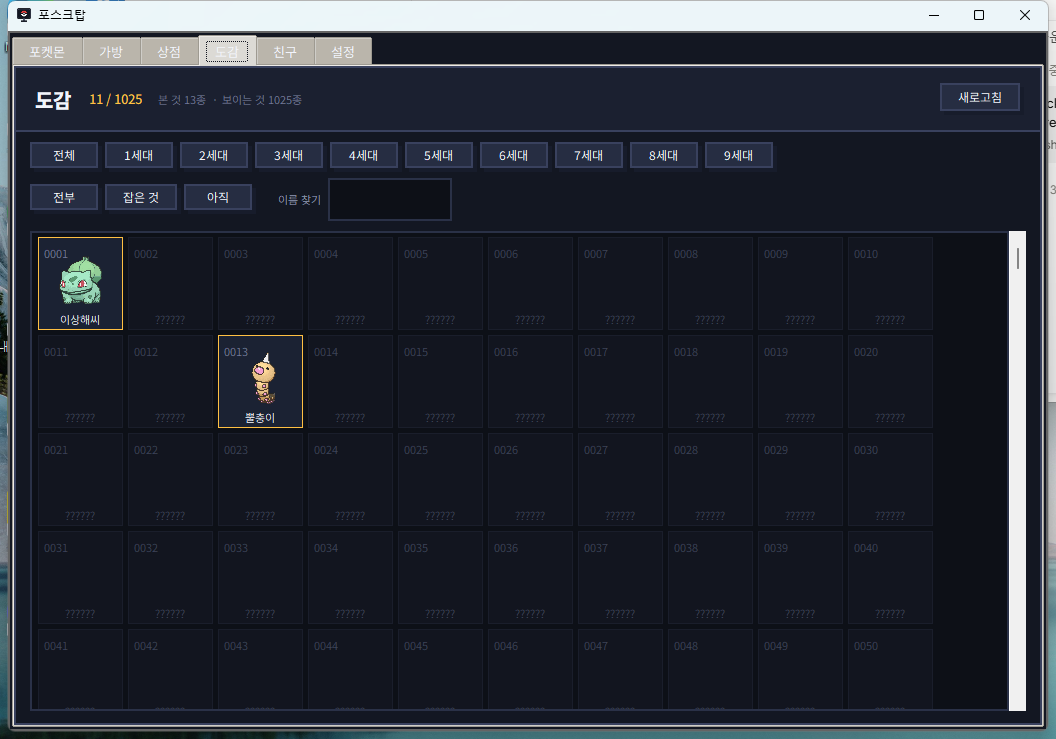
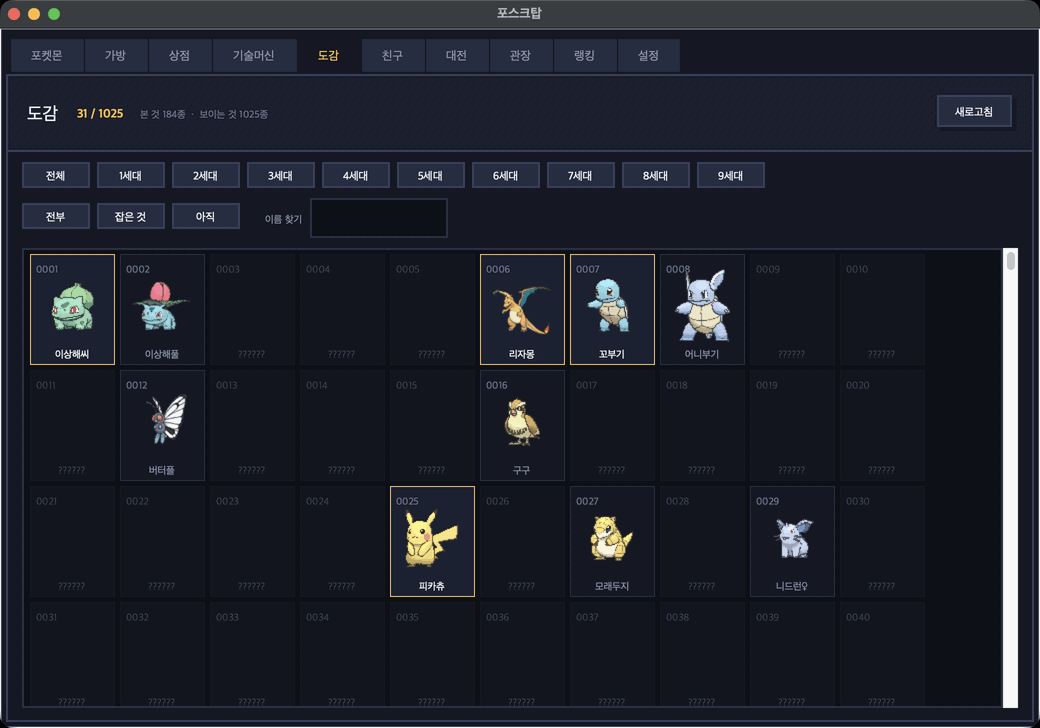
리드미를 1.3.0 에 맞춘다
9월 초(1.0.10) 이후로 안 고쳐서 옛말이 많았다.

- 관장 도전, 기술머신, 지닌 도구·특성, 꽃이 핀 풀숲, 무엇을 잊을지 고르는
  기술 배우기, 가만히 있을 때의 동작을 넣었다
- 도구 94종 -> 212종, 드랍 확률 표를 지금 items.json 으로 다시 셌다
- 대전 상금(이긴 판 1,000원·진 판 300원 -> 내가 건 판을 이기면 500원),
  랜덤 매칭(레벨 +-5, 깍두기 레벨 제외)을 지금 규칙으로 고쳤다
- 포켓몬 관리·가방·상점·도감 화면을 새로 찍고, 기술머신·관장 화면을 더했다
  (256색으로 줄여 한 장에 30~65KB)

CREDITS 에는 관장 기능이 쓰는 자료의 출처를 더했다. 대한민국 지도
(통계청 SGIS · vuski/admdongkor, CC BY 4.0), 트레이너 팀(Bulbapedia),
트레이너 도트(Pokémon Showdown).

diff --git a/README.md b/README.md
@@ -8,6 +8,7 @@
 
 일하는 화면 한켠에서 포켓몬들이 걸어다닙니다.
 가끔 풀숲이 돋아나고, 야생 포켓몬이 나타나고, 잡아서 키웁니다.
+다 키웠으면 친구와 붙거나, 대한민국 곳곳의 관장에게 도전합니다.
 
 [**최신 버전 받기**](https://github.com/rudtjr1106/poketdesktop/releases/latest) · [쓰인 자료](CREDITS.md)
 
@@ -22,20 +23,25 @@
 ## 진짜로 걸어다닙니다
 
 미끄러지듯 움직이는 게 아니라 **발이 바뀝니다.**
-가는 방향에 따라 몸을 돌리고, 위로 올라가면 등이 보입니다.
+가는 방향에 따라 몸을 돌리고, 위로 올라가면 등이 보입니다. 비스듬히도 걷습니다.
 나는 포켓몬은 나는 모습으로 움직입니다.
 걸음은 실제로 나아가는 속도에 맞춰 돌아갑니다 — 천천히 가면 발도 천천히 움직입니다.
+
+가만히 서 있을 때도 굳어 있지 않습니다. 숨을 쉬고, 가끔 앉거나 눕습니다.
+**한동안 안 건드리면 그 자리에서 잠들고**, 건드리면 일어나서 다시 걷습니다.
 
 <sub>1025종 중 982종(야생에 나오는 종 기준 96.8%)에 걷는 도트가 있습니다.
 없는 종은 기존 도트로 나오고, 이 경우 걷는 모습 대신 제자리 애니메이션입니다.</sub>
 
 <div align="center">
-<img src="docs/images/walk-directions.png" width="620" alt="네 방향 걷기">
+<img src="docs/images/walk-directions.png" width="620" alt="방향마다 다른 걷기">
 </div>
 
 ## 어떻게 노나요
 
 **5~7분에 한 번 풀숲이 돋아납니다.** 클릭하면 야생 포켓몬이 나옵니다.
+가끔은 **꽃이 핀 풀숲**이 돋습니다. 그 안에는 좀처럼 만나기 어려운 포켓몬이
+숨어 있습니다 — 무엇인지는 눌러 봐야 압니다.
 
 - **왼쪽 클릭** — 배틀을 겁니다. 내 포켓몬이 다가가서 알아서 싸웁니다
 - **오른쪽 클릭** — 던질 볼을 고릅니다
@@ -44,44 +50,86 @@
 **배틀 중에도 오른쪽 클릭하면 볼을 고릅니다.** 체력을 깎아둔 뒤가 제일
 잘 잡히는데, 거기서 볼을 못 고르면 아깝습니다.
 
-볼은 20종입니다. **지금 상황에서 어느 볼이 잘 듣는지 서버가 계산해서
+볼은 21종입니다. **지금 상황에서 어느 볼이 잘 듣는지 서버가 계산해서
 알려줍니다** — 물타입에게 네트볼이면 ×3.5, 레벨이 낮으면 네스트볼이
 ×3.6 하는 식으로, 배율과 그 이유가 메뉴에 같이 뜹니다.
-던지는 볼에 따라 **날아가는 볼의 그림도 다릅니다.**
+던지는 볼은 **가방에서 보던 그 볼 그림**으로 날아갑니다.
 
-**알림을 띄우지 않습니다.** 켜 두고 잊어버리는 프로그램이라, 무슨 일이
+**알림을 거의 띄우지 않습니다.** 켜 두고 잊어버리는 프로그램이라, 무슨 일이
 있을 때마다 화면 구석에서 튀어나오면 하던 일을 방해합니다. 게임 안에서
 일어나는 일은 바탕화면에서 눈으로 보입니다 — 풀숲이 흔들리고, 도트가
-싸우고, 진화 연출이 돕니다. 놓치면 안 되는 것은 트레이 메뉴에 남습니다.
+싸우고, 진화 연출이 돕니다. 알려주는 것은 놓치면 알 길이 없는 것뿐입니다
+(새 버전, 친구 요청, 선물).
 
 배틀은 별도 화면 없이 **바탕화면 그 자리에서** 벌어집니다.
-서로의 머리 위에 체력바가 뜨고, 체력을 깎아두면 훨씬 잘 잡힙니다.
+서로의 머리 위에 체력바가 뜨고, 기술마다 연출이 나옵니다.
 
-레벨이 오르면 도감대로 기술을 배웁니다. 기술이 네 개 차면 가장 오래된 것이
-밀려나는데, 무엇을 잊었는지 알림으로 알려줍니다.
+레벨이 오르면 도감대로 기술을 배웁니다. **기술이 이미 네 개면 무엇을 잊을지
+직접 고릅니다** — 다섯 기술의 설명과 물리·특수·변화가 한 창에 펼쳐집니다.
 
 <div align="center">
 <img src="docs/images/box.png" width="600" alt="포켓몬 관리">
 </div>
 
 파티는 여섯 마리, 넘치면 PC 박스로 갑니다.
-개체값·성격·특성·기술 전부 본가와 같은 규칙입니다.
+개체값·성격·특성·기술 전부 본가와 같은 규칙이고, 특성과 성격을 누르면
+무슨 뜻인지 알려줍니다. PC 박스는 **타입으로 거르고 이름으로 찾습니다.**
 
 **줄을 끌어다 놓으면 자리가 바뀝니다.** 박스에 있는 애를 파티 줄에 놓으면
 서로 자리를 바꾸고, 파티 안에서 옮기면 순서가 바뀝니다.
 
 ### 창이 하나입니다
 
-포켓몬 관리 · 가방 · 상점 · 도감 · 친구 · 설정이 **탭 하나에** 들어 있습니다.
+포켓몬 · 가방 · 상점 · 기술머신 · 도감 · 친구 · 대전 · 관장 · 랭킹 · 설정이
+**탭 하나에** 들어 있습니다.
 가방을 보다가 상점에 가려고 트레이로 돌아갈 필요가 없습니다.
+
+## 관장에게 도전합니다
+
+**대한민국 시·군·구 256곳마다 트레이너가 한 명씩 기다립니다.**
+관장·사천왕·챔피언부터 라이벌과 악의 조직까지, 원작에서 데리고 다니던
+포켓몬 그대로 Lv.20~100 에 나눠 두었습니다. 난천은 한카리아스를, 레드는
+피카츄를 에이스로 데리고 나옵니다. 어디에 누가 있는지에도 이유가 있습니다.
+
+<div align="center">
+<img src="docs/images/gym-map.png" width="600" alt="서울의 트레이너와 난천의 카드">
+</div>
+
+전국 지도에서 시·도를 누르면 그 안의 시·군·구로 들어갑니다. 레벨이 높을수록
+붉게 칠해지고, 이긴 곳에는 금색 테두리가 둘러집니다. **휠로 지도를 키우고
+끌어서 옮길 수 있습니다** — 서울의 구처럼 작은 곳도 눌러집니다.
+울릉군이나 백령도처럼 멀리 떨어진 섬은 가까이 당겨 그렸습니다.
+
+바탕화면 배틀과 달리 **여기서는 사람이 고릅니다.** 데리고 다니는 포켓몬으로
+6:6, 매 턴 기술을 고르거나 포켓몬을 바꿉니다. 한쪽이 전멸할 때까지 갑니다.
+
+<table>
+<tr>
+<td width="50%"><img src="docs/images/gym-battle.png" alt="기술을 고르는 관장 배틀"></td>
+<td width="50%"><img src="docs/images/gym-fx.png" alt="화염방사 연출"></td>
+</tr>
+</table>
+
+- **기술마다 연출이 나옵니다.** 화염방사는 불길이, 지진은 땅이 갈라지는 식입니다
+- **특성이 동작합니다.** 위협·저수·옹골참·변환자재 같은 특성 167가지가 효과를 냅니다
+- **상대도 머리를 씁니다.** 레벨이 높은 트레이너일수록 불리하면 포켓몬을 바꿉니다
+- 붙기 전에는 **상대 포켓몬의 종류와 레벨까지만** 보입니다. 기술과 특성은 싸워 봐야 압니다
+- 창을 닫아도 승부는 **한 시간 동안 남아 있어서**, 그 지역을 다시 누르면 이어서 합니다
+
+처음 이긴 곳은 **트레이너 레벨×50원**, 다시 이기면 하루 한 번 레벨×5원을 받습니다.
+관장 배틀의 경험치는 1.2배입니다. 판정은 전부 서버가 합니다.
 
 ## 친구와 붙습니다
 
 창을 열고 **친구** 탭에서 닉네임으로 찾아 신청하면 됩니다.
 닉네임이 정확히 맞아야 찾아집니다.
 
-- **랜덤 배틀** — 비슷한 레벨대의 누군가와 붙습니다
+- **랜덤 배틀** — 파티 평균 레벨이 ±5 안인 사람과 붙습니다 (없으면 ±10 까지)
 - **친구 배틀** — 친구 목록에서 지목합니다
+
+랜덤 배틀은 **오래 안 만난 사람부터** 붙이고, 세 시간 안에 붙은 사람은 건너뜁니다.
+평균 레벨을 셀 때 **파티에서 가장 높은 레벨보다 20 넘게 낮은 포켓몬은 뺍니다** —
+Lv.1 을 끼워 평균을 깎아도 원래 레벨대의 상대와 붙습니다.
 
 **상대가 켜 두지 않아도 됩니다.** 그 사람의 지금 파티를 그대로 데려와
 싸우고, 상대는 다음에 켤 때 결과를 봅니다. 서로 켜져 있기를 기다리면
@@ -91,19 +139,22 @@
 반원으로 모이고, 앞선 둘이 가운데로 나와 싸웁니다. 쓰러지면 다음 선수가
 걸어 나오고, 한쪽이 전멸하면 끝납니다. 끝나면 다들 원래대로 돌아갑니다.
 
-싸우는 동안 **상대 닉네임이 오른쪽 아래에 뜹니다.**
+싸우는 동안 **상대 닉네임이 오른쪽 아래에 뜹니다.** 특성이 발동하면
+포켓몬 위에 특성 이름이 뜨고, 지닌 도구도 효과를 냅니다.
 
 진행은 자동입니다. 기술도 교체도 사람이 고르지 않습니다 — 어떤 팀을
 키웠는지로 승부가 갈립니다.
 
 다만 **아무나 순서대로 내보내지는 않습니다.** 쓰러지면 다음 선수를
 상성을 보고 고릅니다 — 내 기술이 상대에게 얼마나 박히는지, 상대 기술이
-나를 얼마나 아프게 하는지를 재서 제일 나은 애가 나옵니다.
+나를 얼마나 아프게 하는지를 재서 제일 나은 애가 나옵니다. 특성 때문에
+안 먹히는 기술(부유에게 땅 기술 같은)은 없는 셈 칩니다.
 순서대로 내보내는 방식과 600판을 붙여 보니 **57% 를 이겼습니다.**
 
-이기면 1,000원, 비기면 500원, 져도 300원을 받습니다(친구 배틀은 절반).
-하루에 받을 수 있는 상금과 걸 수 있는 판수에는 상한이 있습니다.
-랜덤 배틀은 점수가 오르내리고, 다섯 판을 채우면 순위표에 오릅니다.
+**내가 건 판을 이기면 500원**을 받습니다(친구 배틀은 절반). 걸려온 판과
+진 판은 상금이 없습니다 — 누워 있는 편이 이득이면 안 되니까요.
+하루에 걸 수 있는 판은 20판, 대전으로 받는 돈은 하루 6,000원까지입니다.
+랜덤 배틀은 점수가 오르내리고, 다섯 판을 채우면 **랭킹** 탭의 순위표에 오릅니다.
 
 ## 본가 그대로
 
@@ -111,41 +162,59 @@
 |---|---|
 | **1~9세대 1025마리** | 타입·종족값·기술·특성 전부 정식 도감 자료 |
 | **개체값 · 성격 · 특성** | 3세대 이후 능력치 공식 그대로 |
+| **특성** | 관장 배틀과 유저 배틀에서 167가지가 효과를 냅니다 (야생 배틀은 끔) |
+| **지닌 도구** | 121종. 야생·유저·관장 배틀 모두에서 효과를 냅니다 |
+| **기술머신** | 358개. 기술이 네 개면 무엇을 잊을지 고릅니다 |
 | **경험치** | 5세대 공식. 학습장치로 파티 전원이 나눠 받습니다 |
 | **노력치** | 스탯당 252, 총합 510 |
-| **진화** | 레벨 · 돌 · 친밀도 · 특정 기술. 이브이 여덟 갈래도 조건대로 |
+| **진화** | 레벨 · 돌 · 친밀도 · 특정 기술. 이브이 여덟 갈래도 조건대로. 교환진화는 도구로 |
 | **친밀도** | 바탕화면에 데리고 다닌 시간만큼 오릅니다 |
 | **포획** | 5세대 이후 공식. 볼 종류마다 상황을 봅니다 |
 | **이로치** | 4096분의 1 |
 
-전설의 포켓몬은 야생에 나오지 않습니다. 나중에 이벤트로 넣을 예정입니다.
+전설의 포켓몬은 야생에 나오지 않습니다. 대신 사천왕·조직 보스 같은
+트레이너 몇몇이 원작처럼 데리고 나옵니다.
 
 ## 도감
 
 만난 포켓몬이 도감에 남습니다. **1025종 전부** 있고, 세대별로 얼마나
-채웠는지 보여줍니다. 본 적 없는 종은 이름이 가려져 있습니다.
+채웠는지 보여줍니다. 본 적 없는 종은 이름이 가려져 있고, 진화시킨
+포켓몬도 바로 올라갑니다.
 
 <div align="center">
 <img src="docs/images/dex.png" width="600" alt="도감">
 </div>
 
+## 기술머신
+
+**358개**가 있습니다. 상점에서는 살 수 없고 포켓몬을 잡으면 나옵니다.
+하나를 고르면 가진 포켓몬 중 **누가 배울 수 있는지** 바로 보이고,
+기술의 위력·명중·설명이 같이 나옵니다. 써도 없어지지 않습니다.
+
+<div align="center">
+<img src="docs/images/tms.png" width="600" alt="기술머신">
+</div>
+
 ## 도구와 상점
 
-야생을 잡거나 쓰러뜨리면 **가끔 도구가 떨어집니다.** 94종이 있습니다.
+야생을 잡거나 쓰러뜨리면 **가끔 도구가 떨어집니다.** 212종이 있습니다.
 
 <div align="center">
 <img src="docs/images/shop.png" width="600" alt="프렌들리샵">
 </div>
 
 흔한 건 자주, 귀한 건 가끔 나옵니다.
-안 쓰는 건 상점에 팔아 돈을 만들고, 그 돈으로 필요한 걸 삽니다.
-**돈은 도구를 팔아서만 법니다.**
+안 쓰는 건 상점이나 가방에서 바로 팔아 돈을 만들고, 그 돈으로 필요한 걸 삽니다.
+돈은 도구를 팔거나, 대전과 관장에게 이겨서 법니다.
 
 <div align="center">
 <img src="docs/images/bag.png" width="600" alt="가방">
 </div>
 
-- **진화의 돌** — 이브이를 여덟 갈래 중 어디로 보낼지 고릅니다
+- **지닌 도구 121종** — 목탄·먹다남은음식·생명의구슬·구애스카프 같은 것들입니다.
+  **얼마나 올려 주는지 수치로 보입니다** (목탄: 불꽃 타입 기술의 위력이 20% 올라간다)
+- **진화의 돌** — 이브이를 여덟 갈래 중 어디로 보낼지 고릅니다.
+  교환으로 진화하던 포켓몬은 연결의끈·금속코트 같은 도구로 진화합니다
 - **영양제 · 깃털 · 열매** — 노력치를 올리고 내립니다
 - **은색/금색 병뚜껑** — 레벨 50부터 개체값을 최고로 단련합니다
 - **이상한사탕 · 변함없는돌** — 레벨을 올리고, 진화를 멈춥니다
@@ -154,32 +223,33 @@
 
 **잡으면 30%, 쓰러뜨리면 45%** 로 도구가 하나 떨어집니다.
 잡으면 포켓몬이라는 보상이 이미 있어서 쓰러뜨릴 때보다 낮습니다.
-94종 중 88종이 나옵니다.
+212종 중 205종이 나옵니다.
 이로치를 잡으면 여러 번 뽑아 그중 제일 귀한 것을 줍니다.
 
 | 등급 | 종류 | 나올 확률 | 한 종당 |
 |---|---:|---:|---:|
-| 흔함 | 18종 | 53.4% | 2.969~2.969% |
-| 조금 귀함 | 20종 | 26.7% | 1.336~1.336% |
-| 귀함 | 41종 | 17.0% | 0.416~0.416% |
-| 매우 귀함 | 7종 | 2.5% | 0.148~1.010% |
-| 전설 | 2종 | 0.3% | 0.059~0.267% |
+| 흔함 | 61종 | 62.3% | 1.022% |
+| 보통 | 57종 | 26.2% | 0.460% |
+| 희귀 | 71종 | 10.2% | 0.143% |
+| 매우 희귀 | 14종 | 1.2% | 0.051~0.347% |
+| 전설 | 2종 | 0.1% | 0.020~0.092% |
 
 눈여겨볼 것들입니다. **하루 8시간 켜두고 55번쯤 만나** 절반은 잡고
 절반은 쓰러뜨린다고 쳤을 때입니다 (하루에 20개쯤 떨어집니다).
 
 | 도구 | 확률 | 얼마 만에 하나 | 팔면 |
 |---|---:|---:|---:|
-| 몬스터볼 | 2.969% | 1.6일에 하나 | 100원 |
-| 하이퍼볼 | 0.416% | 11.7일에 하나 | 400원 |
-| 은색병뚜껑 | 1.010% | 4.8일에 하나 | 2,500원 |
-| 이상한사탕 | 0.594% | 8.2일에 하나 | 5,000원 |
-| 금색병뚜껑 | 0.267% | 18.1일에 하나 | 5,000원 |
-| 마스터볼 | 0.059% | 81.6일에 하나 | 0원 |
-| 불꽃의돌 | 0.416% | 11.7일에 하나 | 1,500원 |
-| 연결의끈 | 0.148% | 32.7일에 하나 | 4,000원 |
+| 몬스터볼 | 1.022% | 4.7일에 하나 | 100원 |
+| 하이퍼볼 | 0.143% | 33.9일에 하나 | 400원 |
+| 은색병뚜껑 | 0.347% | 14.0일에 하나 | 2,500원 |
+| 이상한사탕 | 0.204% | 23.7일에 하나 | 5,000원 |
+| 금색병뚜껑 | 0.092% | 52.7일에 하나 | 5,000원 |
+| 마스터볼 | 0.020% | 237.3일에 하나 | 0원 |
+| 불꽃의돌 | 0.143% | 33.9일에 하나 | 1,500원 |
+| 연결의끈 | 0.051% | 94.9일에 하나 | 4,000원 |
+| 먹다남은음식 | 0.051% | 94.9일에 하나 | 7,500원 |
 
-드랍 하나의 기대 판매가는 **855원**, 하루에 **17,000원**쯤입니다.
+드랍 하나의 기대 판매가는 **1,003원**, 하루에 **20,000원**쯤입니다.
 몬스터볼이 200원이니 잡으러 다니는 것만으로 볼값은 넉넉히 나옵니다.
 
 ## 시작하기
@@ -200,7 +270,7 @@
 윈도우와 맥이 **같은 서버**를 씁니다. 친구도 되고 대전도 됩니다.
 
 **한 번 받으면 그 다음부터는 신경 쓸 게 없습니다.** 새 버전이 나오면
-켤 때 알아서 받아서 다시 시작합니다.
+켤 때 알아서 받아서 다시 시작하고, 무엇이 바뀌었는지 한 번 보여줍니다.
 
 **컴퓨터를 켜면 같이 시작합니다.** 바탕화면에서 포켓몬이 걸어다니는 게
 전부인 프로그램이라, 켤 때마다 손으로 켜야 하면 며칠 만에 안 켜게 됩니다.
@@ -233,7 +303,7 @@
 </div>
 
 서버 주소를 입력할 필요 없습니다. 설치도 필요 없습니다.
-트레이 아이콘에서 포켓몬 관리 · 가방 · 상점을 열 수 있습니다.
+트레이 아이콘에서 포켓몬 관리 · 가방 · 상점 · 관장을 열 수 있습니다.
 
 > **보안 경고가 뜬다면**
 >
@@ -261,6 +331,7 @@
 도트만 남고 창은 보이지 않습니다 — 맥에는 윈도우의 '이 색을 뚫어라' 가
 없어서, 창을 통째로 투명하게 만들고 도트는 CALayer 로 직접 그립니다.
 덕분에 색빼기가 아니라 진짜 알파라서 가장자리가 깔끔합니다.
+글자는 맥에서 한 단계 크게 나옵니다.
 
 <table>
 <tr>
@@ -269,7 +340,7 @@
 **Dock 에 안 뜹니다. 메뉴 막대에 있습니다.**
 
 화면 위쪽 메뉴 막대의 **몬스터볼 아이콘**이 이 게임의 메뉴입니다.
-포켓몬 관리 · 가방 · 상점 · 설정이 전부 거기서 열립니다. 켜 두고
+포켓몬 관리 · 가방 · 상점 · 관장 · 설정이 전부 거기서 열립니다. 켜 두고
 잊어버리는 프로그램이라 Dock 한 칸을 계속 차지하지 않게 했습니다.
 
 이 메뉴는 맥의 기본 메뉴가 아니라 **직접 그린 것**입니다. 맥에서 기본
@@ -308,7 +379,6 @@
 
 ## 앞으로
 
-- 체육관
 - 전설의 포켓몬 이벤트
 - **윈도우 서명** — 맥은 공증까지 붙어서 경고 없이 열립니다. 윈도우는
   아직 SmartScreen 이 한 번 막습니다 (코드 서명 인증서가 따로 필요합니다)
@@ -318,7 +388,8 @@
 | | |
 |---|---|
 | [맥에서 개발하기](docs/맥에서-개발하기.md) | 맥에서 돌리고 고치고 `.app` 으로 묶기. 맥에서 물렸던 것들 |
-| [운영](docs/운영.md) | 서버 배포·백업·되살리기 |
+| [운영](docs/운영.md) | 서버 배포·백업·되살리기·DB 들여다보기 |
+| [선물 보내기](docs/선물-보내기.md) | 운영자가 도구·돈·볼을 보내는 법 (받는 사람에게 창이 뜬다) |
 | [AWS 이전](docs/AWS이전.md) | 서울 서버를 처음부터 세우는 절차 |
 | [백신 오탐](docs/defender-false-positive.md) | SmartScreen·백신 경고가 뜰 때 |
 
@@ -331,6 +402,9 @@
 
 걷는 도트는 [PMDCollab/SpriteCollab](https://github.com/PMDCollab/SpriteCollab)
 ([CC BY-NC 4.0](https://creativecommons.org/licenses/by-nc/4.0/)) 을 씁니다.
+관장 지도는 통계청 SGIS 행정경계를 가공한
+[vuski/admdongkor](https://github.com/vuski/admdongkor)
+([CC BY 4.0](https://creativecommons.org/licenses/by/4.0/)) 입니다.
 자세한 출처는 [CREDITS.md](CREDITS.md) 에 있습니다.
 
 </div>

diff --git a/CREDITS.md b/CREDITS.md
@@ -27,6 +27,27 @@ SpriteCollab 에 없는 14종은
 어느 쪽에도 없는 43종(야생에 나오는 건 29종)은 배틀 도트로 대신한다.
 그 종들은 정면 고정이라 걷는 모습이 없다.
 
+## 관장 도전
+
+### 대한민국 지도 (시·도 / 시·군·구 경계)
+통계청 SGIS 행정경계(공공누리 제1유형)를 행정동 단위로 정리한
+[vuski/admdongkor](https://github.com/vuski/admdongkor) ver20260701.
+**라이선스: [CC BY 4.0](https://creativecommons.org/licenses/by/4.0/)** (출처를 밝히는 조건)
+`tools/build_korea_map.py` 가 행정동을 시·군·구로 묶고 점을 줄여
+`server/data/korea_map.json` 을 만든다. 관장 탭의 지도 아래에도 출처를 띄운다.
+
+### 트레이너와 데리고 다니는 포켓몬
+[Bulbapedia](https://bulbapedia.bulbagarden.net/) 의 트레이너 문서
+(원작 게임에서 쓰는 팀과 레벨)를 참고했다.
+**Bulbapedia 본문 라이선스: [CC BY-NC-SA 2.5](https://creativecommons.org/licenses/by-nc-sa/2.5/)**
+`tools/build_gyms.py` 가 문서의 팀 표를 읽어 256명을 뽑고 레벨대에 나눠
+`server/data/gyms.json` 을 만든다. 배치(어느 지역에 누가 있는지)와 이유는 직접 정했다.
+
+### 트레이너 도트
+[Pokémon Showdown](https://play.pokemonshowdown.com/sprites/trainers/) 의
+트레이너 스프라이트. `server/data/trainer_sprites/` 에 있다.
+의정부시의 이스터에그 트레이너와 지우의 도트는 개발자가 따로 준비한 그림이다.
+
 ## 포켓몬
 포켓몬과 관련된 이름·그림의 저작권은 닌텐도 / Game Freak / 포켓몬 컴퍼니에 있다.
 이 프로젝트는 팬이 만든 비상업 프로젝트다.
